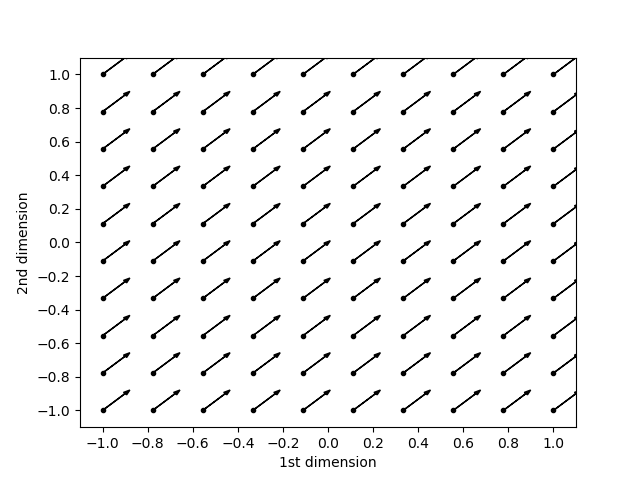
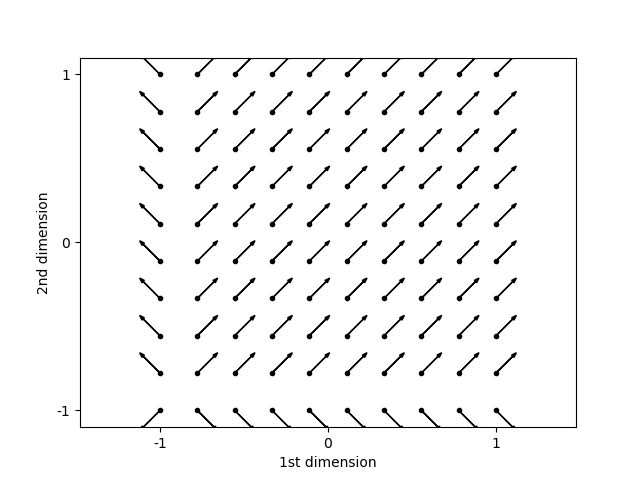
add theoretical studies

diff --git a/Studies/theoretical/theoretical_arrow.py b/Studies/theoretical/theoretical_arrow.py
@@ -1,6 +1,13 @@
 import numpy as np
 import matplotlib.pyplot as plt
 
+def high_reward_expectation(position):
+    return 1/(10*(np.abs(1-min(0.9,position))));
+
+def low_reward_expectation(position):
+    return 0.1/(10*(np.abs(-1-max(-0.9,position))));
+
+
 if __name__ == "__main__":
 
     dim_linspaces = [np.linspace(-1,1,10,endpoint=True),np.linspace(-1,1,10,endpoint=True)]
@@ -13,7 +20,10 @@ if __name__ == "__main__":
     Pi_values=[]
     for state in grid :
         pi_value = state.flatten().tolist()
-        pi_value.extend([1,1])
+        pi_value.extend([
+            1 if high_reward_expectation(state[0]) > low_reward_expectation(state[0]) else -1,
+            1 if high_reward_expectation(state[1]) > low_reward_expectation(state[1]) else -1
+            ])
         Pi_values.append(pi_value)
     Pi_values = np.array(Pi_values)
 
@@ -32,8 +42,8 @@ if __name__ == "__main__":
 
     plt.xlabel('1st dimension')
     plt.ylabel('2nd dimension')
-    plt.xticks(np.arange(-1, 1.2, step=0.2))
-    plt.yticks(np.arange(-1, 1.2, step=0.2))
+    plt.xticks([-1,0,1], [-1,0,1])
+    plt.yticks([-1,0,1], [-1,0,1])
 
     plt.show()
     fig.savefig("theoretical_arrow.png")

diff --git a/Studies/theoretical/theoretical_contour_bis.py b/Studies/theoretical/theoretical_contour_bis.py
@@ -38,15 +38,14 @@ if __name__ == "__main__":
     fig, ax = plt.subplots(1)
     plt.set_cmap('RdYlGn')
 
-    colorset = ax.tricontourf(states[:,0], states[:,1], qs,levels=199)
+    colorset = ax.imshow(qs.reshape((20,20)),origin="lower",norm = matplotlib.colors.LogNorm())
     colorbar = fig.colorbar(colorset)
     colorbar.ax.set_ylabel('Q values')
     colorbar.set_clim(0.1,1)
-
+    plt.xticks([0,10,19], [-1,0,1])
+    plt.yticks([0,10,19], [-1,0,1])
     ax.set_xlabel('1st dimension')
     ax.set_ylabel('2nd dimension')
-    ax.set_xticks(np.arange(-1, 1.2, step=0.2))
-    ax.set_yticks(np.arange(-1, 1.2, step=0.2))
 
     plt.show()
     fig.savefig("theoretical_contour.png")
